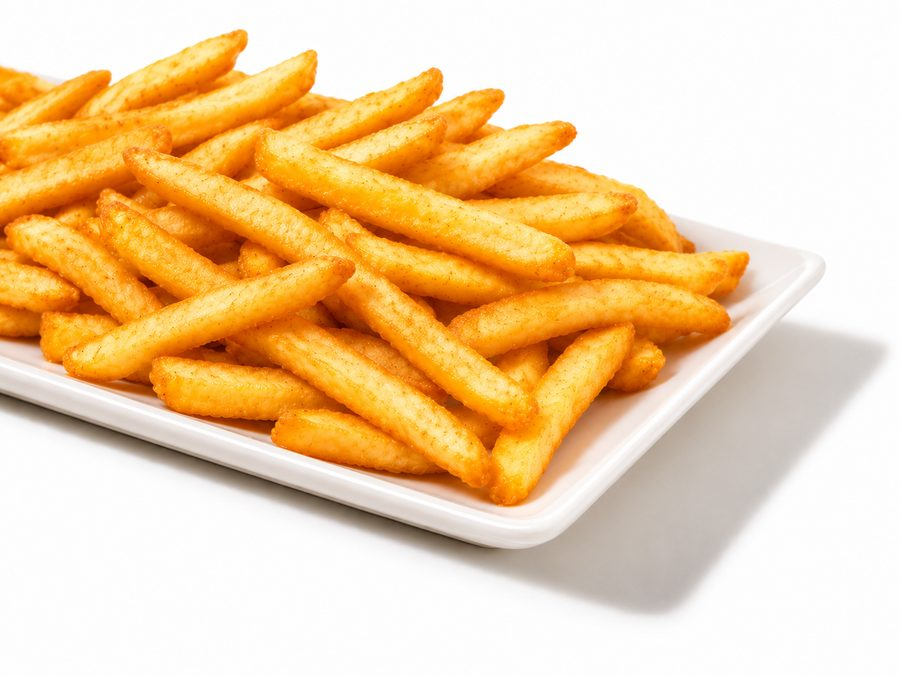
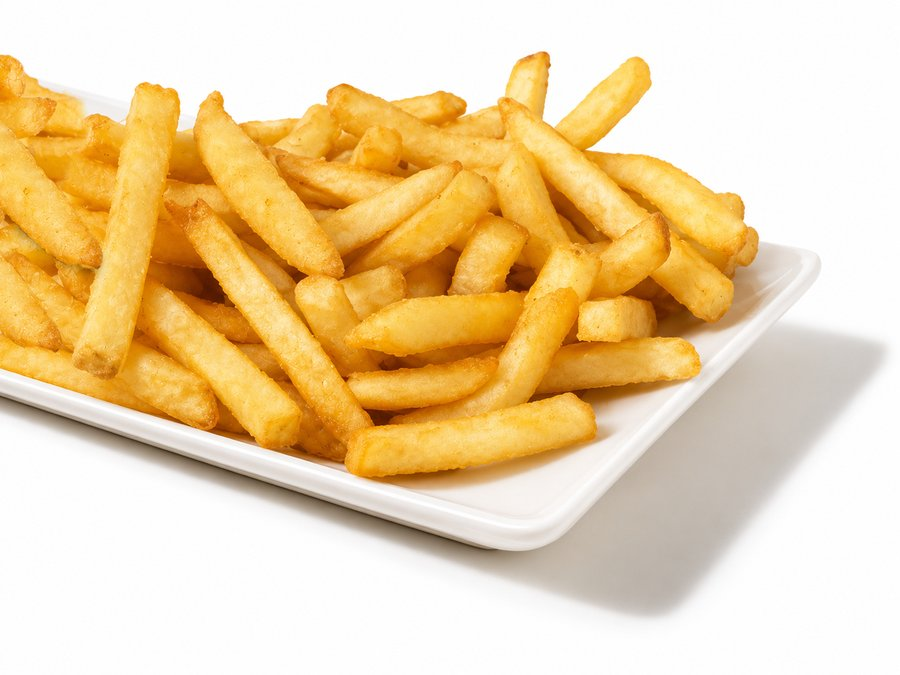
New fries and poutine photos (poutines cut out of the marble), fries as the Sides cover
Claude-Session: https://claude.ai/code/session_01GwuNKQ4EhJTqGbbawQ6M8A

diff --git a/pages/menu.js b/pages/menu.js
@@ -673,7 +673,7 @@ function MenuBody() {
       { id: "signature",   label: "Signature Pizzas", photo: "bourbon",  nav: { tab: "entrees", sub: "signature" } },
       { id: "specialty",   label: "Specialty Pizzas", photo: "canadian", nav: { tab: "entrees", sub: "specialty" } },
       { id: "wings",       label: "Wings",            img: "/images/wings.jpg",     nav: { tab: "entrees", sub: "wings" } },
-      { id: "sides",       label: "Sides",            img: "/images/menu_sides.png",     nav: { tab: "sides" } },
+      { id: "sides",       label: "Sides",            img: "/images/sides/sides-cover.jpg", nav: { tab: "sides" } },
       { id: "combos",      label: "Combos",           img: "/images/combos/combos-cover.jpg", nav: { tab: "entrees", sub: "combos" } },
       { id: "drinks-dips", label: "Drinks & Dips",    img: "/images/drinks/cover-drinks-dips.jpg", nav: { tab: "drinks" } },
       { id: "special",     label: "Special Menu",     img: "/images/menu_special.png",   nav: { tab: "entrees", sub: "special" } },

diff --git a/scripts/side-images.py b/scripts/side-images.py
@@ -1,0 +1,51 @@
+# Run from the project folder:  python3 scripts/side-images.py
+# (needs Pillow, numpy and scipy). Makes the side menu photos from the
+# originals in source-photos/sides (kept out of public so they aren't deployed):
+#  - poutines: overhead bowls on marble, cut out (the bowl is found as the
+#    biggest dark shape) and put on white with a soft shadow, like the
+#    garlic breads
+#  - fries: already on white, just resized
+#  - the Sides category cover on the menu's front page (3:2)
+import numpy as np
+from PIL import Image, ImageDraw, ImageFilter
+from scipy import ndimage
+SRC = "source-photos/sides"; OUT = "public/images/sides"
+
+def cut_bowl(path):
+    im = Image.open(path).convert("RGB"); im.thumbnail((2000, 2000), Image.LANCZOS)
+    a = np.asarray(im).astype(int)
+    dark = a.max(axis=2) < 90
+    lab, n = ndimage.label(dark)
+    bowl = lab == (np.argmax(ndimage.sum(dark, lab, range(1, n + 1))) + 1)
+    bowl = ndimage.binary_fill_holes(ndimage.binary_closing(bowl, iterations=6))
+    ys, xs = np.where(bowl)
+    oval = Image.new("L", im.size, 0)
+    ImageDraw.Draw(oval).ellipse([xs.min(), ys.min(), xs.max(), ys.max()], fill=255)
+    alpha = oval.filter(ImageFilter.GaussianBlur(1.5))
+    out = im.convert("RGBA"); out.putalpha(alpha)
+    return out.crop(alpha.point(lambda v: 255 if v > 12 else 0).getbbox())
+
+def card(cut, name, h=590):
+    # 900x675 white card, item centred with a soft shadow (same as garlic bread)
+    im = cut.resize((round(cut.width * h / cut.height), h), Image.LANCZOS)
+    c = Image.new("RGBA", (900, 675), (255, 255, 255, 255))
+    x = (900 - im.width) // 2; y = (675 - h) // 2 - 6
+    blk = Image.new("RGBA", im.size, (0, 0, 0, 255)); blk.putalpha(im.getchannel("A").point(lambda v: int(v * 0.45)))
+    sh = Image.new("RGBA", c.size, (0, 0, 0, 0)); sh.alpha_composite(blk, (x + 12, y + 14))
+    c.alpha_composite(sh.filter(ImageFilter.GaussianBlur(14))); c.alpha_composite(im, (x, y))
+    c.convert("RGB").save(f"{OUT}/{name}.jpg", "JPEG", quality=85, optimize=True)
+    print("saved", name)
+
+for n in ["poutine", "shawarma-poutine"]:
+    cut = cut_bowl(f"{SRC}/{n}.jpg")
+    cut.resize((1000, round(cut.height * 1000 / cut.width)), Image.LANCZOS).save(f"{OUT}/{n}-top.webp", "WEBP", quality=86, method=6)
+    card(cut, n)
+
+fries = Image.open(f"{SRC}/fries.png").convert("RGB")
+fries.resize((900, 675), Image.LANCZOS).save(f"{OUT}/fries.jpg", "JPEG", quality=85, optimize=True)
+print("saved fries")
+# Sides cover: 3:2, fries photo with white added at the sides (nothing cropped)
+cover = Image.new("RGB", (1629, 1086), "white")
+cover.paste(fries, ((1629 - fries.width) // 2, 0))
+cover.resize((1350, 900), Image.LANCZOS).save(f"{OUT}/sides-cover.jpg", "JPEG", quality=85, optimize=True)
+print("saved sides-cover")
